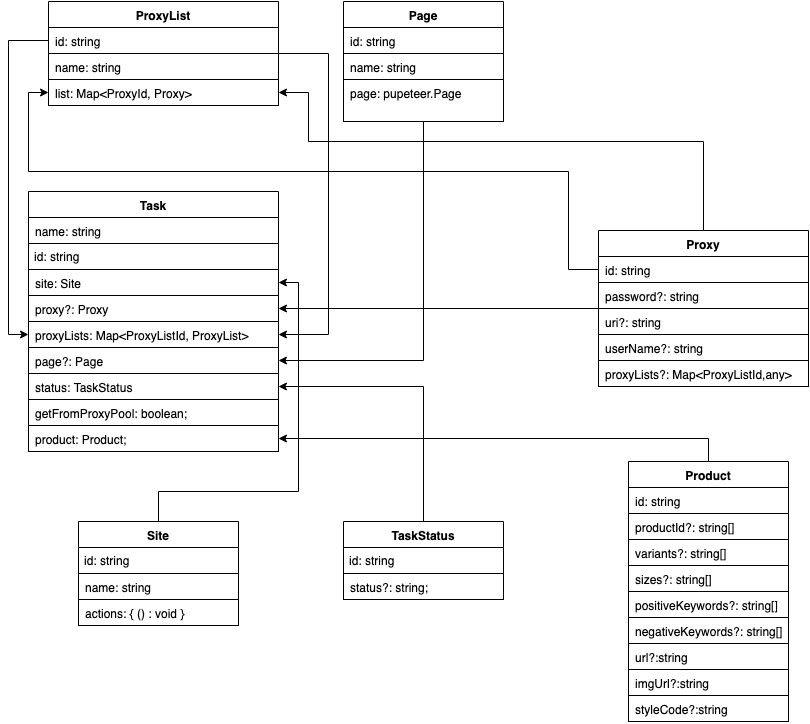
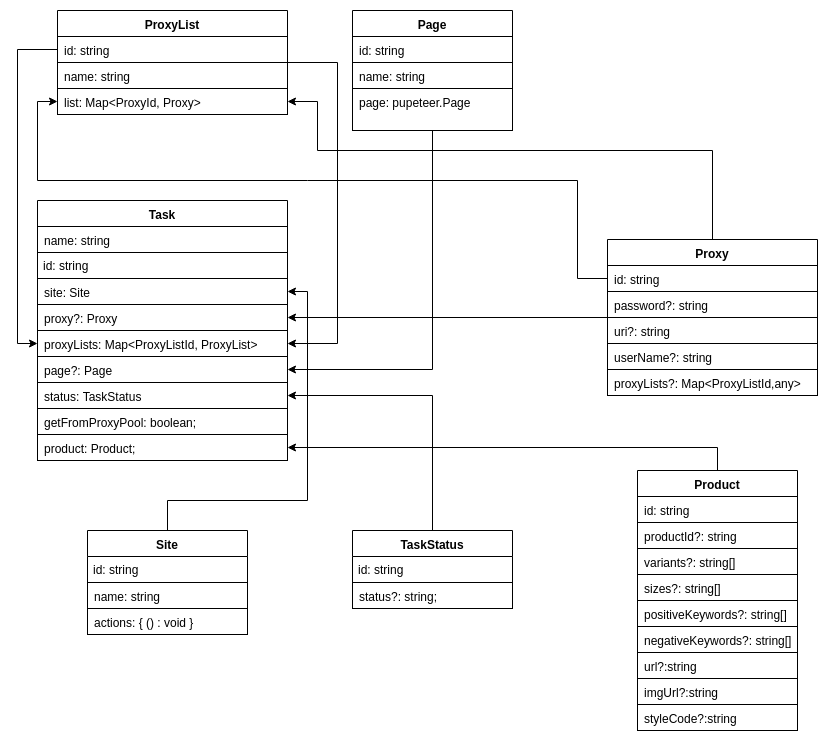
update product model , tests pasing test

diff --git a/test/Any.ts b/test/Any.ts
@@ -4,6 +4,7 @@ import { TaskStatus } from '../models/TaskStatus';
 import { Site } from '../models/Site';
 import { Proxy } from '../models/Proxy';
 import { Page } from '../models/Page';
+import { Product } from '../models/Product';
 
 export const Any = {
   arrayOf<T>(generator: () => T, count: number): T[] {
@@ -20,12 +21,34 @@ export const Any = {
       status = { id: faker.random.uuid(), display: faker.random.word() },
       site = { id: faker.random.uuid(), name: faker.random.word() },
       getFromProxyPool = faker.random.boolean(),
+      product = {
+        id: faker.random.uuid(),
+        productId: faker.random.uuid(),
+        variants:[],
+        sizes:[],
+        positiveKeywords: [],
+        negativeKeywords: [],
+        url: faker.internet.url(),
+        imgUrl:faker.internet.url(),
+        styleCode:faker.random.uuid()
+      }
     }: TaskParams = {
       id: faker.random.uuid(),
       name: faker.random.word(),
       status: { id: faker.random.uuid(), display: faker.random.word() },
       site: { id: faker.random.uuid(), name: faker.random.word() },
       getFromProxyPool: faker.random.boolean(),
+      product:{
+        id: faker.random.uuid(),
+        productId: faker.random.uuid(),
+        variants:[],
+        sizes:[],
+        positiveKeywords: [],
+        negativeKeywords: [],
+        url: faker.internet.url(),
+        imgUrl:faker.internet.url(),
+        styleCode:faker.random.uuid()
+      }
     }
   ): Task {
     return {
@@ -34,6 +57,7 @@ export const Any = {
       status,
       site,
       getFromProxyPool,
+      product
     };
   },
 };
@@ -47,4 +71,5 @@ type TaskParams = {
   page?: Page;
   status?: TaskStatus;
   getFromProxyPool?: boolean;
+  product?: Product;
 };

diff --git a/models/Product.ts b/models/Product.ts
@@ -1,6 +1,6 @@
 export interface Product {
   id: string;
-  productId?: string[];
+  productId: string;
   variants?: string[];
   sizes?: string[];
   positiveKeywords?: string[];
